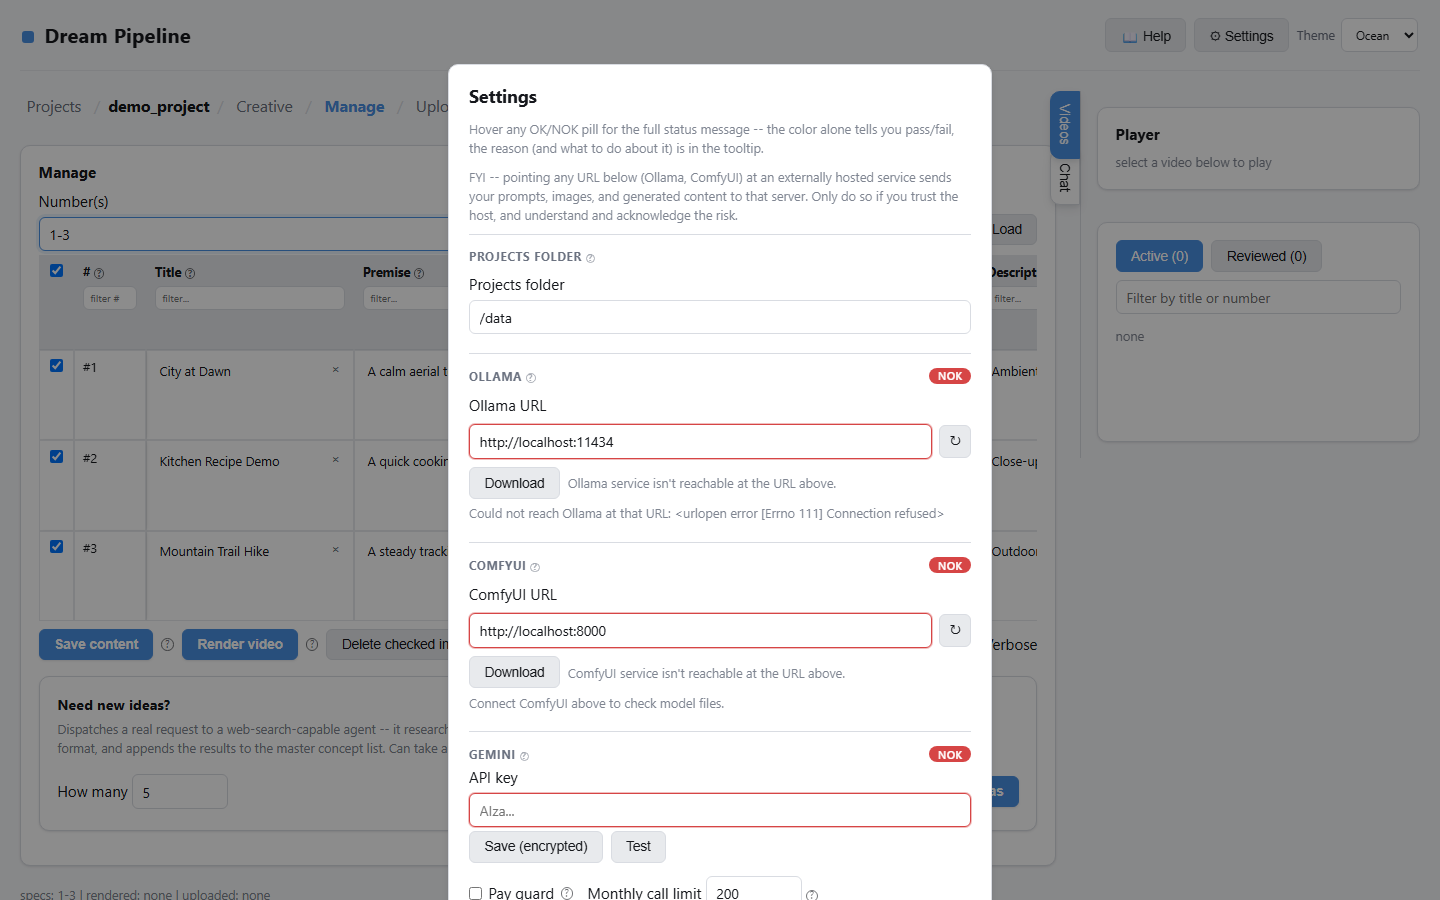
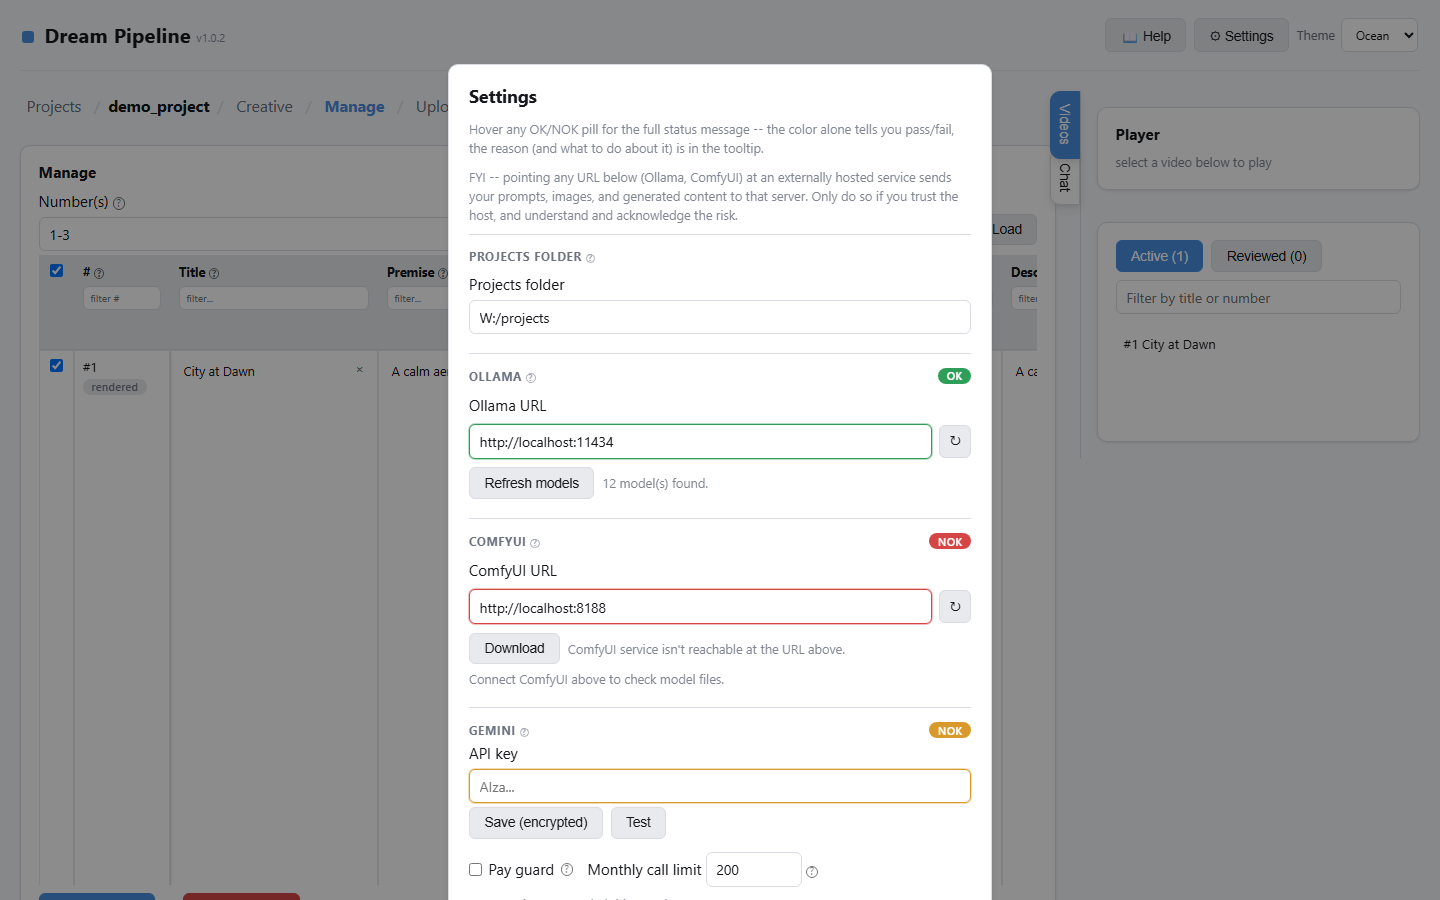
Fix first-project creation on a fresh install; README prerequisites; refresh screenshots
- do_new_project wrote the new project's index.json through the module-
  level INDEX_PATH, which is None until some project has been selected --
  so the very first "New project" click on a clean install failed with a
  500. Use the new project's own path.
- README: "Before you start" section ahead of Quick start listing every
  external dependency (ComfyUI + models, NVIDIA GPU, Ollama or Gemini,
  Docker, optional YouTube OAuth, disk) and which are required; the web
  search note moves there; the old Requirements section is folded in.
- Screenshots regenerated from a neutral demo project on the current UI
  (v1.0.2), including the player with a rendered clip loaded.

diff --git a/_pipeline/dream_step.py b/_pipeline/dream_step.py
@@ -5705,8 +5705,13 @@ def do_new_project(name, args):
     # agent-authored: matches the existing "never write/edit CREATIVE.md"
     # rule, this just gives the human a real, already-working starting
     # point via code, not the model.
-    if not INDEX_PATH.exists():
-        INDEX_PATH.write_text("[]", encoding="utf-8")
+    # The NEW project's own index -- not the module-level INDEX_PATH, which
+    # still points at whatever project was last selected (or is None on a
+    # fresh server, which made the very first "New project" click on a
+    # clean install fail with an AttributeError).
+    index_path = data_dir / "index.json"
+    if not index_path.exists():
+        index_path.write_text("[]", encoding="utf-8")
     (project_dir / "Reviewed").mkdir(exist_ok=True)
     creative_stub_path = data_dir / "CREATIVE.md"
     if not creative_stub_path.exists():

diff --git a/README.md b/README.md
@@ -86,6 +86,43 @@ with inline diagnostics for whatever's misconfigured.
 
 ![Settings](docs/screenshots/settings.png)
 
+## Before you start
+
+Dream Pipeline renders nothing itself. It is a control panel on top of
+other software you must already have running, or be willing to install.
+Check this list before `docker compose up`, or the GUI will open to a
+Settings screen full of red pills and nothing will work yet.
+
+| You need | Why | Required? |
+|---|---|---|
+| **ComfyUI**, reachable over HTTP, with the model files for at least one bundled workflow (`workflow_api_*.json`) installed | Every video and keyframe is rendered by ComfyUI. Dream Pipeline only sends it jobs. | **Yes** |
+| **An NVIDIA GPU** on whichever machine runs ComfyUI, with enough VRAM for the checkpoint you pick (the default LTX workflow is heavy; check the checkpoint's own requirements) | ComfyUI's renders run on it. Dream Pipeline itself needs no GPU. | **Yes** |
+| **Ollama** with a text model and a vision model pulled, **or** a **Gemini API key** (paid, billed per call) | Script and idea writing, vision QC of rendered frames, concept research. Either one covers all three. | **One of the two** |
+| **Docker** (or Python 3.12+ for a bare install) | Runs the GUI. | **Yes** |
+| A **Google Cloud OAuth client** with the YouTube Data and YouTube Analytics APIs enabled | The Upload and Analytics tabs only. Everything else works without it. | No |
+| **Disk**: ~250 MB for the GUI image; ~10 GB more for the bundled Ollama and ComfyUI images; ~52 GB more for the default models | See the size table under Quick start. | Depends on profile |
+
+The **Complete** Docker profile installs Ollama and ComfyUI and downloads
+the default models for you, but the GPU and the disk are still yours to
+provide, and the whole first run is a ~62 GB download. The **Lite**
+profile assumes you already run ComfyUI and Ollama somewhere. Settings
+shows a live OK/NOK pill for each dependency, with the reason on hover,
+so you can see exactly what is still missing.
+
+None of the backend locations are hardcoded: `ollama_url` and
+`comfyui_url` are plain settings, local or remote.
+
+**A note on the built-in web search.** "Need new ideas?" and the chat
+assistant can look things up online through `web_search_mcp.py`. It
+queries Wikipedia's official API, and for general search it fetches
+DuckDuckGo's HTML results page directly (with Bing via a headless
+browser as a fallback) rather than going through a paid search API.
+That is a convenience for a personal tool, not something those sites
+formally offer, so use it lightly and check their terms if you run it
+at any scale. Swapping in a real search API means replacing the two
+functions in that file; nothing else in the pipeline depends on how
+the results are obtained.
+
 ## Quick start (Docker — recommended)
 
 Three ways to run this, all via the same `docker-compose.yml` — plain
@@ -296,35 +333,6 @@ present locally (kept out of the repo itself — development tooling, not
 part of the distributable app), or ask an agent working in this repo to
 read the source directly — `web_ui.py` and `dream_step.py` are the
 ground truth.
-
-## Requirements
-
-- **A reachable ComfyUI instance, with model files installed for
-  whatever workflow(s) you use — required.** Dream Pipeline does not
-  render video itself; it's strictly an orchestration layer on top of
-  ComfyUI's own API (checked live from Settings; no local GPU is needed
-  for Dream Pipeline itself, it only ever talks to ComfyUI over HTTP).
-- **Ollama and/or a Gemini API key — required for script/idea
-  generation, vision QC, and concept research** (either one covers all
-  three; a Gemini key also unlocks reference-image generation for
-  keyframes that would otherwise need a local image model).
-- **A Google Cloud OAuth client with the YouTube Data + Analytics APIs
-  enabled — optional**, only needed for the Upload and Analytics tabs.
-  Everything else works fully without it.
-
-**A note on the built-in web search.** "Need new ideas?" and the chat
-assistant can look things up online through `web_search_mcp.py`. It
-queries Wikipedia's official API, and for general search it fetches
-DuckDuckGo's HTML results page directly (with Bing via a headless
-browser as a fallback) rather than going through a paid search API.
-That is a convenience for a personal tool, not something those sites
-formally offer, so use it lightly and check their terms if you run it
-at any scale. Swapping in a real search API means replacing the two
-functions in that file; nothing else in the pipeline depends on how
-the results are obtained.
-
-None of the above are hardcoded — `ollama_url`/`comfyui_url` are plain
-config values, local or remote, set from Settings.
 
 ## Tested models
 
